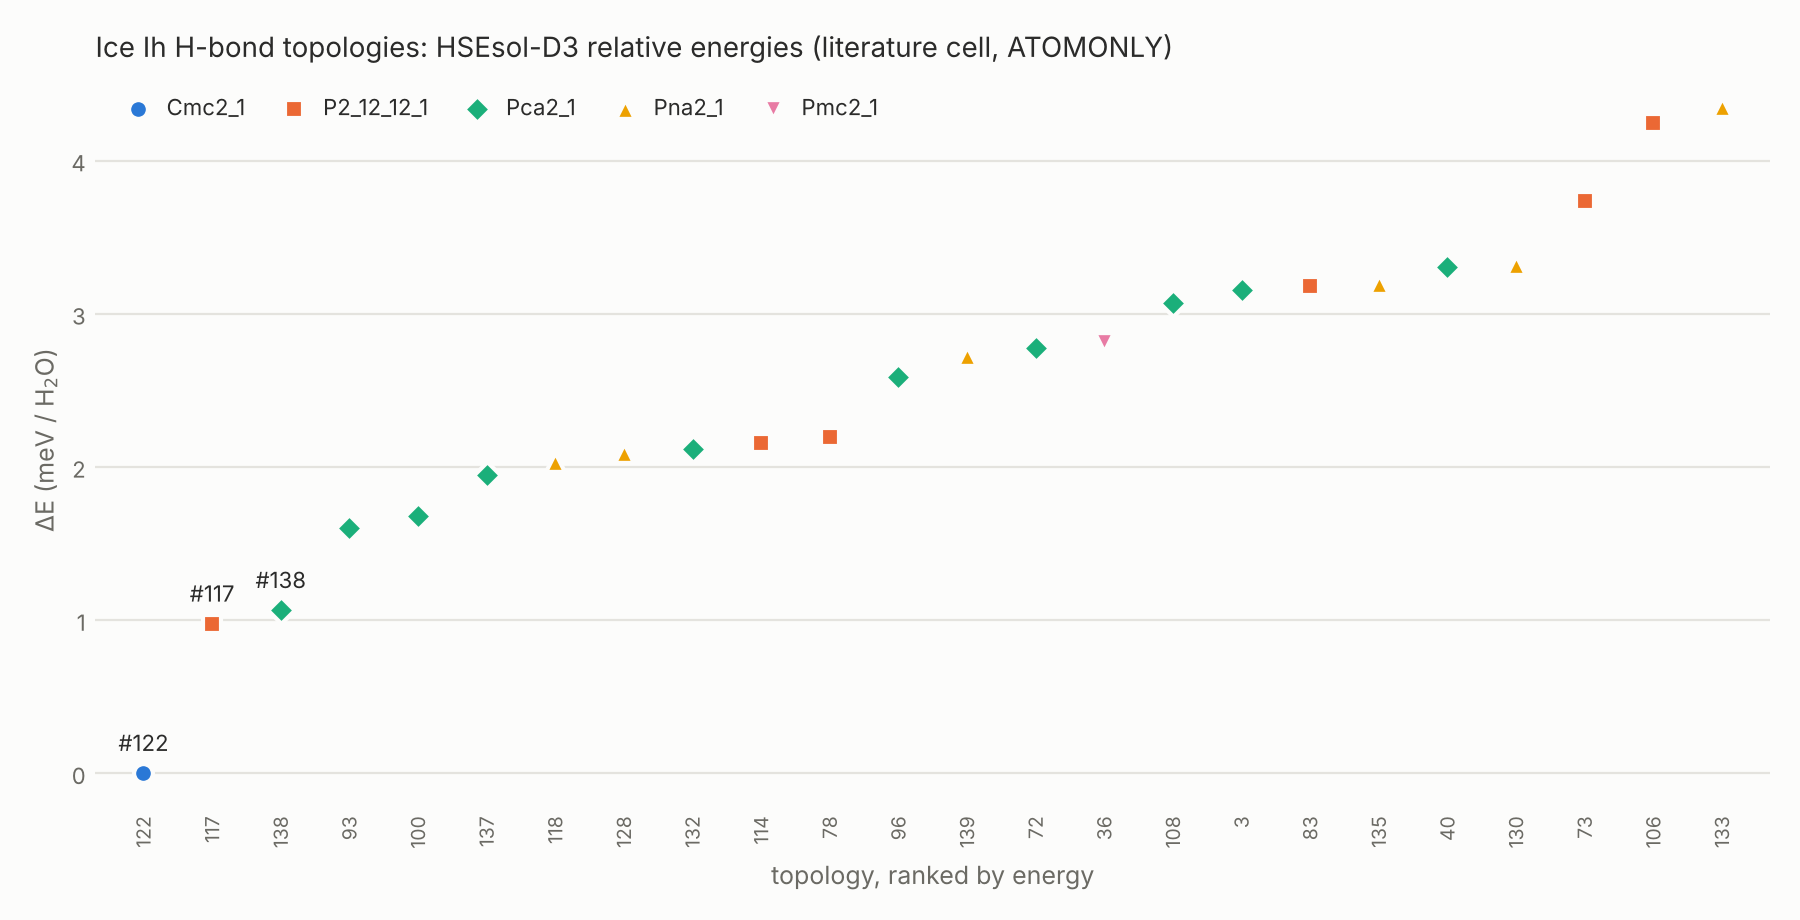
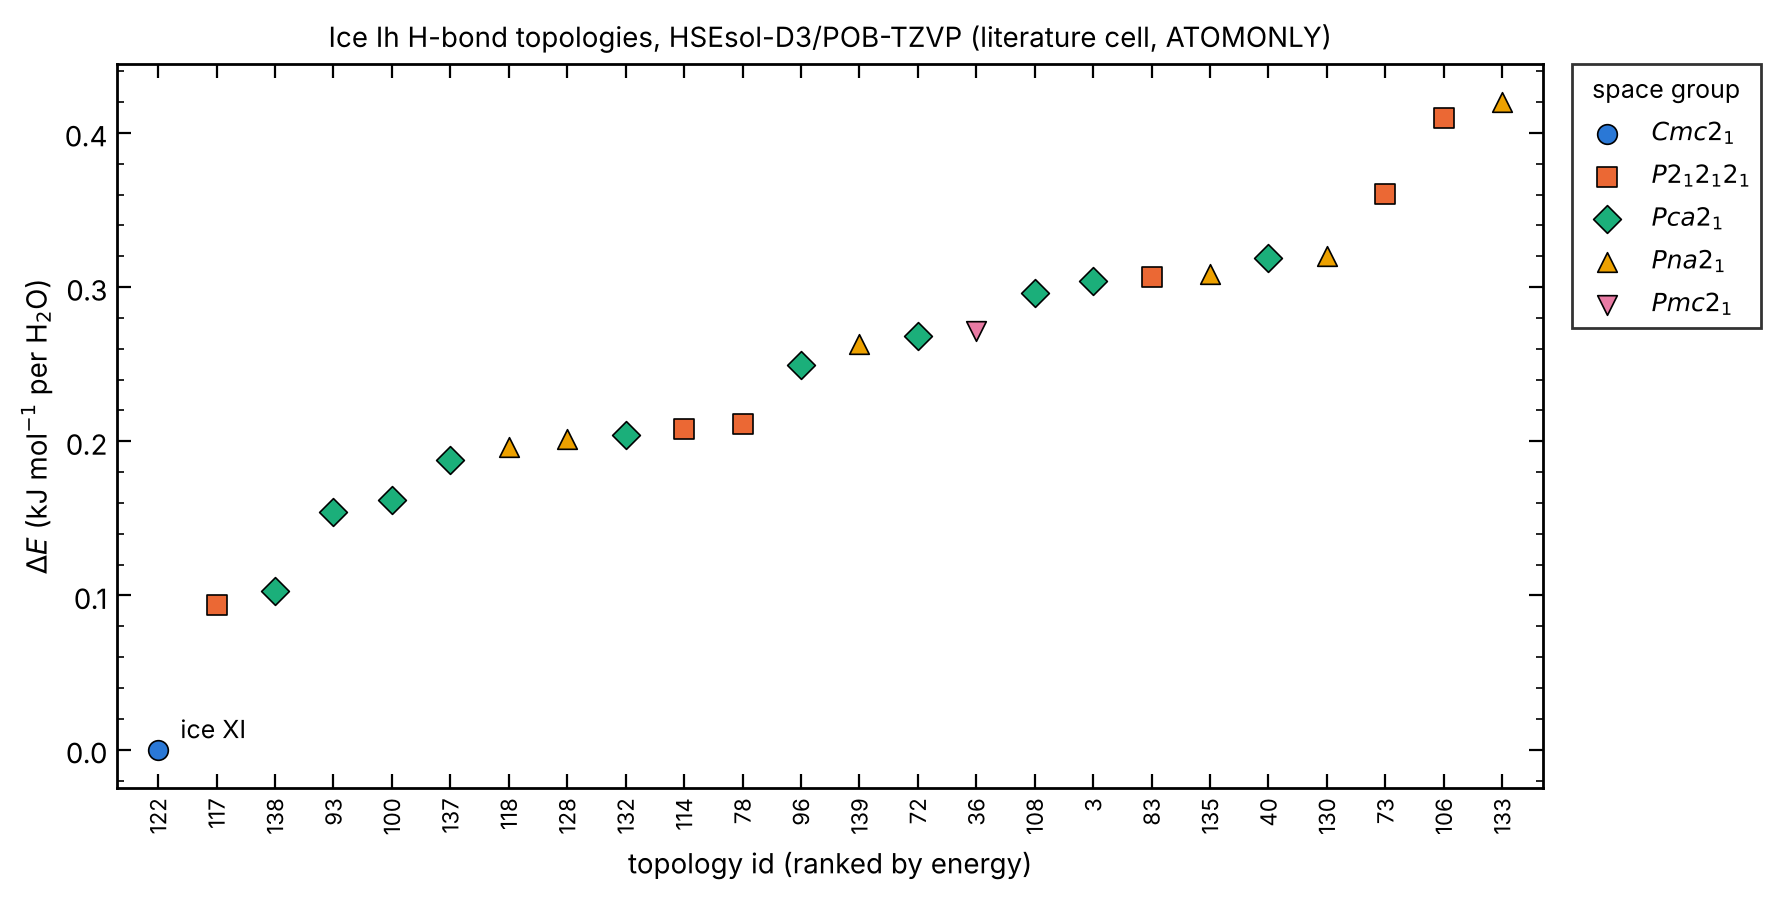
Energy plot in kJ/mol, classic matplotlib style, legend outside
Claude-Session: https://claude.ai/code/session_01QbcnTQUCxwPyhZ4gjeExDE

diff --git a/graph_enumeration/analyze_energies.py b/graph_enumeration/analyze_energies.py
@@ -53,6 +53,7 @@ def main():
     p.add_argument("--temps", type=float, nargs="*", default=[72.0, 108.0],
                    help="temperatures [K] for Boltzmann populations (multiplicity-weighted)")
     p.add_argument("--no-plot", action="store_true")
+    p.add_argument("--unit", choices=("kJmol", "meV"), default="kJmol", help="energy unit of the plot")
     a = p.parse_args()
 
     jobs = list(csv.DictReader(open(os.path.join(a.jobs, "jobs.csv"))))
@@ -111,54 +112,61 @@ def main():
               + "".join(f" {r[f'population_{T:g}K']:9.3f}" for T in a.temps))
 
     if not a.no_plot:
-        plot(rows, os.path.join(out, "energies.png"))
+        plot(rows, os.path.join(out, "energies.png"), a.unit)
     print(f"written to {out}/")
 
 
-def plot(rows, path):
+def _sg_label(sg):
+    """Hermann-Mauguin symbol in mathtext, e.g. P2_12_12_1 -> $P2_12_12_1$."""
+    return f"${sg}$" if "_" in sg else sg
+
+
+def plot(rows, path, unit="kJmol"):
     import matplotlib
     matplotlib.use("Agg")
     import matplotlib.pyplot as plt
 
+    key, ylab = (("dE_kJmol_per_H2O", r"$\Delta E$ (kJ mol$^{-1}$ per H$_2$O)") if unit == "kJmol"
+                 else ("dE_meV_per_H2O", r"$\Delta E$ (meV per H$_2$O)"))
     groups = []
     for r in rows:
         if r["space_group"] not in groups:
             groups.append(r["space_group"])
-    # fixed order: by first appearance in energy order
     style = {sg: (COLORS[i % 8], MARKERS[i % 8]) for i, sg in enumerate(groups)}
 
-    ink, muted, grid = "#2b2b2a", "#6b6a64", "#e4e3de"
+    plt.rcParams.update({"font.size": 10, "axes.linewidth": 1.0,
+                         "xtick.direction": "in", "ytick.direction": "in",
+                         "xtick.top": True, "ytick.right": True})
     fig, ax = plt.subplots(figsize=(9, 4.6), dpi=200)
-    fig.patch.set_facecolor("#fcfcfb")
-    ax.set_facecolor("#fcfcfb")
     x = np.arange(1, len(rows) + 1)
+    y = np.array([r[key] for r in rows])
     for sg in groups:
         idx = [i for i, r in enumerate(rows) if r["space_group"] == sg]
         c, m = style[sg]
-        ax.scatter(x[idx], [rows[i]["dE_meV_per_H2O"] for i in idx], s=46, color=c, marker=m,
-                   edgecolors="#fcfcfb", linewidths=1.5, zorder=3, label=sg)
+        ax.scatter(x[idx], y[idx], s=50, color=c, marker=m, edgecolors="black",
+                   linewidths=0.6, zorder=3, label=_sg_label(sg))
     for i, r in enumerate(rows):
-        if i < 3 or r["space_group"] == "Cmc2_1":
-            ax.annotate(f"#{r['id']}", (x[i], r["dE_meV_per_H2O"]), textcoords="offset points",
-                        xytext=(0, 8), ha="center", fontsize=8, color=ink)
-    ax.set_xlabel("topology, ranked by energy", color=muted, fontsize=9)
-    ax.set_ylabel("ΔE (meV / H$_2$O)", color=muted, fontsize=9)
-    ax.set_title("Ice Ih H-bond topologies: HSEsol-D3 relative energies (literature cell, ATOMONLY)",
-                 color=ink, fontsize=10, loc="left")
+        if r["space_group"] == "Cmc2_1":
+            ax.annotate("ice XI", (x[i], y[i]), textcoords="offset points",
+                        xytext=(8, 2), ha="left", va="bottom", fontsize=9)
+    ax.set_xlabel("topology id (ranked by energy)")
+    ax.set_ylabel(ylab)
+    ax.set_title("Ice Ih H-bond topologies, HSEsol-D3/POB-TZVP (literature cell, ATOMONLY)", fontsize=10)
     ax.set_xticks(x)
-    ax.set_xticklabels([str(r["id"]) for r in rows], fontsize=7, color=muted, rotation=90)
-    ax.tick_params(axis="y", labelsize=8, colors=muted)
-    ax.tick_params(axis="both", length=0)
-    ax.grid(axis="y", color=grid, linewidth=0.8, zorder=0)
-    for s in ax.spines.values():
-        s.set_visible(False)
-    ax.legend(frameon=False, fontsize=8, ncol=len(groups), loc="upper left", labelcolor=ink,
-              handletextpad=0.3, columnspacing=1.2)
+    ax.set_xticklabels([str(r["id"]) for r in rows], fontsize=8, rotation=90)
+    ax.minorticks_on()
+    ax.tick_params(axis="x", which="minor", bottom=False, top=False)
+    ax.tick_params(which="major", length=5)
+    ax.tick_params(which="minor", length=2.5)
     ax.set_xlim(0.3, len(rows) + 0.7)
-    ax.set_ylim(bottom=min(-0.05 * max(r["dE_meV_per_H2O"] for r in rows), -0.1))
+    pad = 0.06 * y.max()
+    ax.set_ylim(-pad, y.max() + pad)
+    ax.legend(title="space group", loc="upper left", bbox_to_anchor=(1.02, 1.0), borderaxespad=0.0,
+              frameon=True, edgecolor="black", fancybox=False, fontsize=9, title_fontsize=9)
     fig.tight_layout()
-    fig.savefig(path, facecolor=fig.get_facecolor())
+    fig.savefig(path, bbox_inches="tight")
     plt.close(fig)
+    plt.rcdefaults()
 
 
 if __name__ == "__main__":
